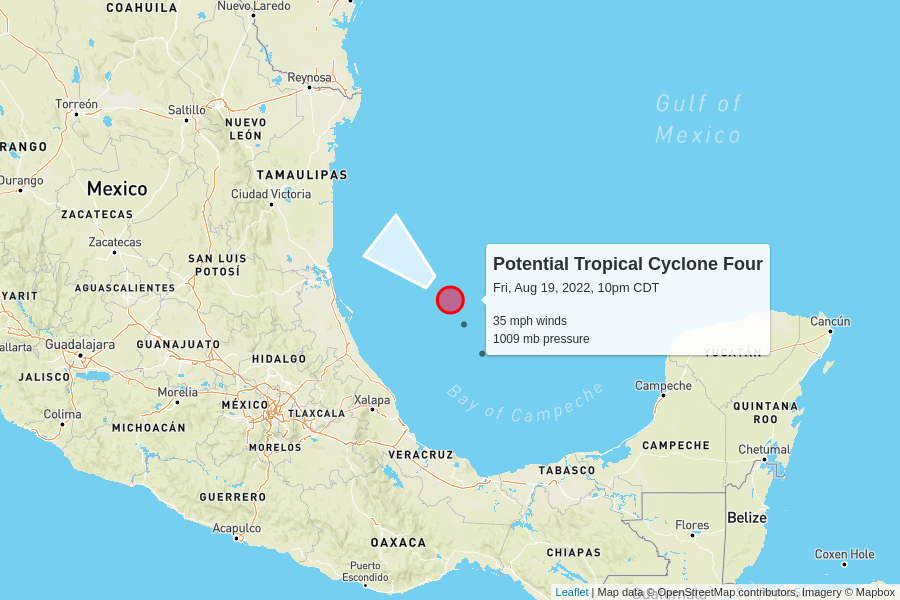
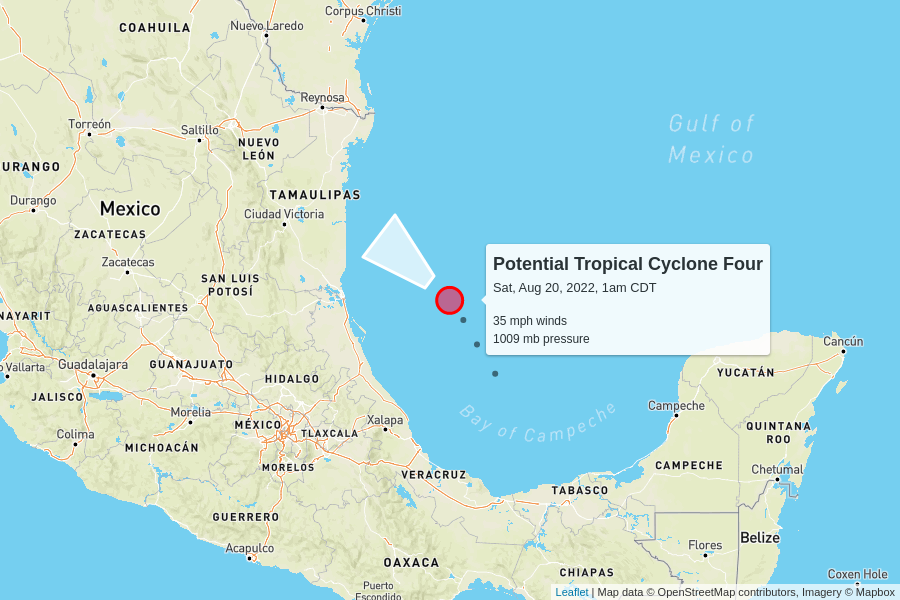
automatic update

diff --git a/docs/index.html b/docs/index.html
@@ -100,7 +100,7 @@
         <td colspan="6" class="storm category-0" >
           <h2>
             Potential Tropical Cyclone Four
-            <p class="updated">last updated <span data-time>2022-08-20T03:00:00.000Z</span></p>
+            <p class="updated">last updated <span data-time>2022-08-20T06:00:00.000Z</span></p>
           </h2>
         </td>
       </tr>
